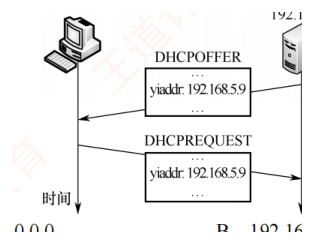
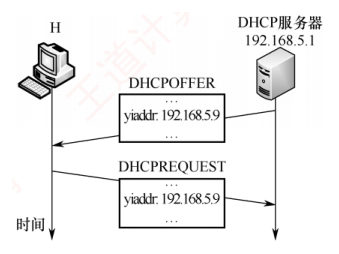
fix(bank-408): net X72 DHCP 时序图框补全上下缘并去掉串入的选项

Changed region(s): [[0.0287, 0.0287, 0.9745, 0.9754], [0.6879, 0.918, 0.7452, 0.9754], [0.9172, 0.918, 0.9745, 0.9467]]

diff --git a/math-bank/index.html b/math-bank/index.html
@@ -22,20 +22,20 @@
 <link rel="stylesheet" href="https://cdn.jsdelivr.net/npm/katex@0.16.9/dist/katex.min.css">
 <script src="https://cdn.jsdelivr.net/npm/katex@0.16.9/dist/katex.min.js"></script>
 <!-- 不用 Google Fonts：国内常被墙/超时，阻塞首屏导致白屏 -->
-<link rel="stylesheet" href="styles.css?v=507">
-<script>window.__BANK_DATA_VER__='507';</script>
+<link rel="stylesheet" href="styles.css?v=508">
+<script>window.__BANK_DATA_VER__='508';</script>
 <script>
 (function () {
   var base = (location.pathname || '').indexOf('/banks/') === 0
     ? '/banks/common/'
     : 'vendor/viewer-common/';
   document.write('<script src="' + base + 'storage.js"><\/script>');
-  document.write('<script src="' + base + 'platform-sync.js?v=507"><\/script>');
-      document.write('<link rel="stylesheet" href="' + base + 'scratch-pad.css?v=507">');
-      document.write('<script src="' + base + 'scratch-ink.js?v=507"><\/script>');
-      document.write('<script src="' + base + 'scratch-pad.js?v=507"><\/script>');
-  document.write('<script src="' + base + 'question-notes.js?v=507"><\/script>');
-  document.write('<script src="' + base + 'pdf-export.js?v=507"><\/script>');
+  document.write('<script src="' + base + 'platform-sync.js?v=508"><\/script>');
+      document.write('<link rel="stylesheet" href="' + base + 'scratch-pad.css?v=508">');
+      document.write('<script src="' + base + 'scratch-ink.js?v=508"><\/script>');
+      document.write('<script src="' + base + 'scratch-pad.js?v=508"><\/script>');
+  document.write('<script src="' + base + 'question-notes.js?v=508"><\/script>');
+  document.write('<script src="' + base + 'pdf-export.js?v=508"><\/script>');
 })();
 </script>
 </head>
@@ -414,9 +414,9 @@
   </div>
 </div>
 
-<script src="data.js?v=507"></script>
-<script src="choice-only.js?v=507"></script>
-<script src="app.js?v=507"></script>
+<script src="data.js?v=508"></script>
+<script src="choice-only.js?v=508"></script>
+<script src="app.js?v=508"></script>
 <div id="platformSyncBar" class="platform-sync-bar" hidden aria-hidden="true">
   <div class="platform-sync-bar-text" id="platformSyncBarText"></div>
   <button type="button" class="btn btn-primary" id="platformSyncBarBtn" hidden>重试同步</button>

diff --git a/math-bank/app.js b/math-bank/app.js
@@ -5859,7 +5859,7 @@ init();
 // PWA：注册 Service Worker（换 CACHE 版本后主动 update，避免旧 CSS 一直 stale）
 if ('serviceWorker' in navigator) {
   window.addEventListener('load', () => {
-    navigator.serviceWorker.register('./sw.js?v=507').then((reg) => {
+    navigator.serviceWorker.register('./sw.js?v=508').then((reg) => {
       reg.update().catch(() => {});
       console.log('[SW] registered, scope:', reg.scope);
     }).catch((err) => {

diff --git a/math-bank/sw.js b/math-bank/sw.js
@@ -2,13 +2,13 @@
 // JS/CSS/HTML + 题库数据 JSON：Network-First（避免题干修了仍显示旧缓存）
 // 其它同源静态：Stale-While-Revalidate
 
-const CACHE_NAME = 'wd408-ui-v507';
+const CACHE_NAME = 'wd408-ui-v508';
 const APP_SHELL = [
   './',
   './index.html',
-  './styles.css?v=507',
-  './app.js?v=507',
-  './data.js?v=507',
+  './styles.css?v=508',
+  './app.js?v=508',
+  './data.js?v=508',
   './manifest.json'
 ];
 

diff --git a/doc/ocr-fixes.md b/doc/ocr-fixes.md
@@ -3752,3 +3752,12 @@ OS 选择题池 649 题，seen 从零建。20 题里 1 道真缺陷。连对 0/3
 - **回归**：发布态断言通过；`rebuild_bank.ps1 -Course net` pytest 150 passed；缓存戳 506→507。
 - **云端**：`push_data.ps1` → `remote __BANK_DATA_VER__=507`，`data-net.json` 200、裁图哈希一致，平台 408 池 `changed 1 failed 0`；公网 `data-net.json?v=507` 题干已无图内文字，`crops/...?v=507` 200、695×277；实机第 71 题题干一句话 + 整幅图。
 - **备注**：本机池补导仍需临时 `SECRET_KEY`（同 X58 那条）。
+
+## 2026-10-29 · net X72 DHCP 时序图上下都被切（主人「这一题图是不是不完整」）
+
+- **病征**：X72（p164，2025 统考真题，DHCP 四报文时序图）裁图 314×244：顶部「H」「DHCP服务器 192.168.5.1」被切到只剩 `192.1` 半截，右侧服务器图标缺角，底部还漏进选项行（`○ ○ ○`、`R 192 16`）。
+- **根因**：这题本来就有 `fig_manual_boxes.json` 的 `net:164:X72` 框，但框是 `[350,795,640,1015]` —— 上边界 795 压掉主机/服务器标签（图顶实为 773）、右边界 640 切掉服务器（实为 685）、下边界 1015 伸进选项（图底 996、选项 1007 起）。
+- **修复**：框改 `[371,769,695,999]`，重裁 339×254；`H`、`DHCP服务器 192.168.5.1`、DHCPOFFER/DHCPREQUEST 两个报文框（yiaddr: 192.168.5.9）、`时间` 轴与两条竖线箭头全部完整，不再带选项文字。
+- **踩到的坑**：改台账时先按「新增」写了一段，结果文件里出现两个同名 `net:164:X72` 键（JSON 允许重复、Python 取后者），重裁仍用旧框；删掉旧条目后才生效。以后动 `fig_manual_boxes.json` 先 `grep` 该 key。
+- **回归**：`rebuild_bank.ps1 -Course net` pytest 150 passed；`bump_bank_version.py --force` 507→508（只换图，数据哈希不变）。
+- **云端**：`push_data.ps1` → `remote __BANK_DATA_VER__=508`，裁图哈希一致；公网 `crops/net/page_164_X72.png?v=508` 200、339×254。`data-*.json` 未变，平台 408 池跳过重导。
